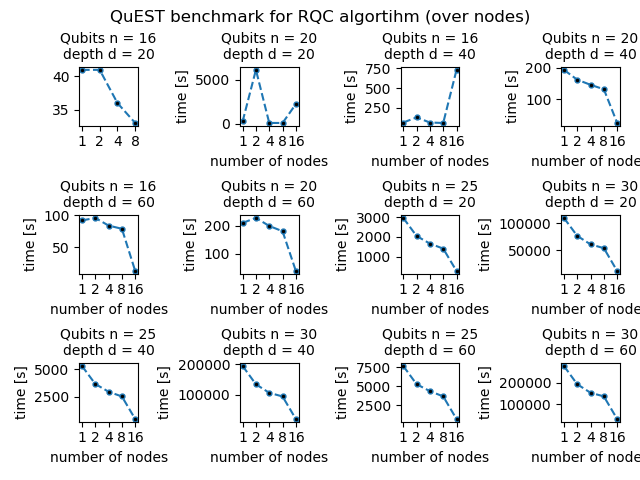
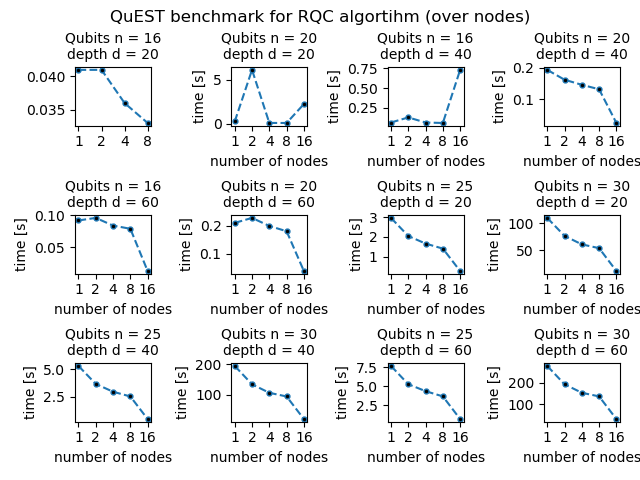
fix rqc benchmark plots

diff --git a/benchmarks/plot-programs/rqc-plot.py b/benchmarks/plot-programs/rqc-plot.py
@@ -46,6 +46,7 @@ plt.figure()
 dimx = int(np.round(np.sqrt(len(y))))
 dimy = dimx if dimx*dimx >= len(y) else dimx+1
 for i in range(len(y)):
+    y[i] = [x*1e-3 for x in y[i]]
     plt.subplot(dimx, dimy, i+1)
     if i == 0:
         plt.plot(a[:-1], y[i][:-1], linestyle='dashed', marker='.', markerfacecolor='black', markersize=7, label="n = %a " % (numQubits[i]))
